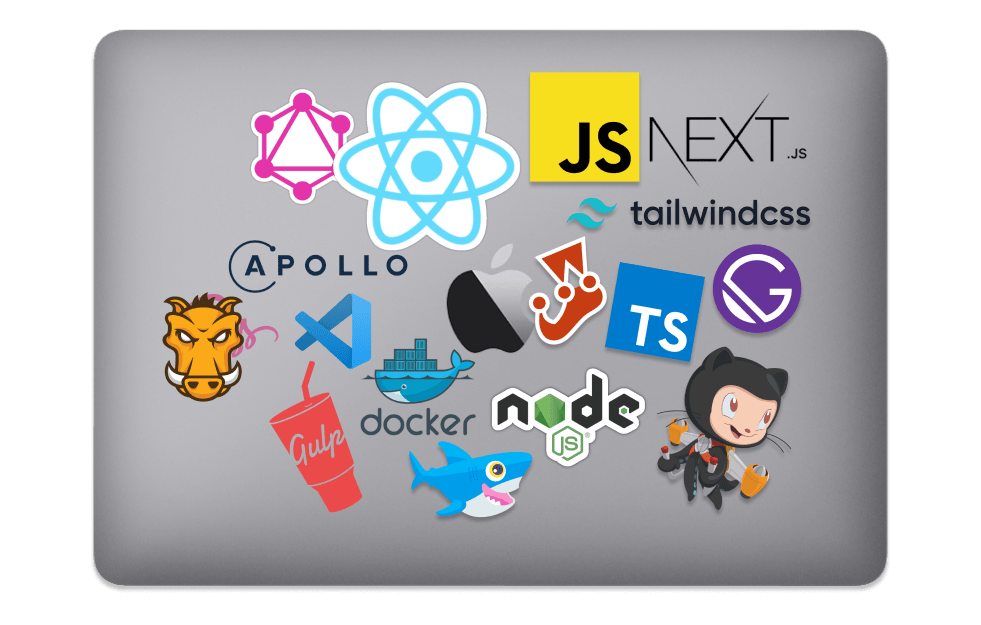
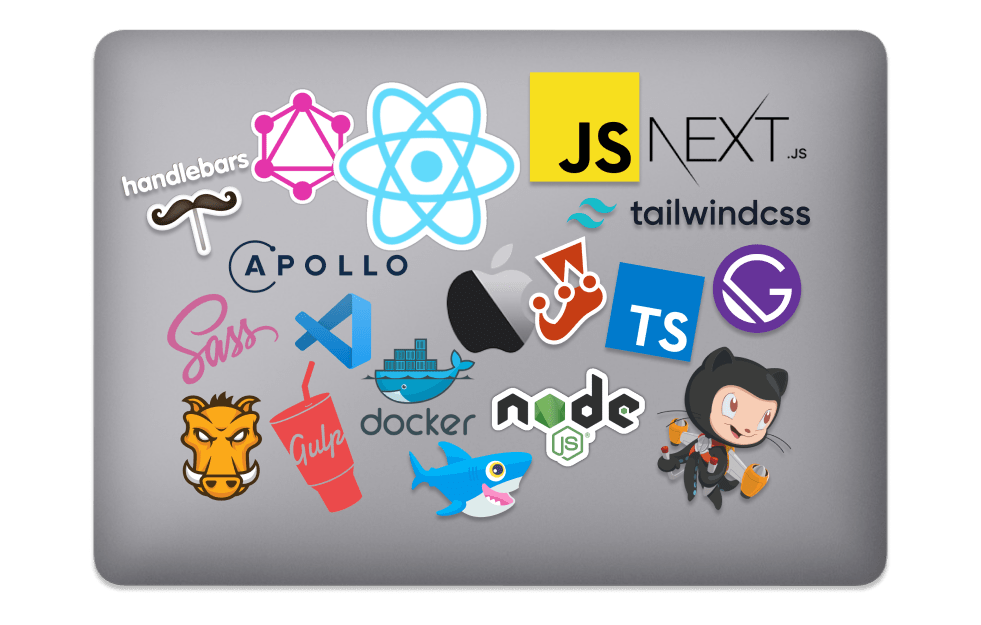
Adding MyStack, SHC, Recommendations, and minor changes

Changed region(s): [[0.1529, 0.456, 0.2752, 0.8208], [0.1223, 0.2432, 0.2752, 0.4256]]

diff --git a/components/SeHablaCodigo/SeHablaCodigo.js b/components/SeHablaCodigo/SeHablaCodigo.js
@@ -1,0 +1,86 @@
+import styled from 'styled-components';
+import { FlexCenteredXY } from '../StyledHelpers';
+
+const StyledSeHablaCodigo = styled(FlexCenteredXY)`
+  background-color: #0c0c0c;
+  border-top: 1px solid lightgray;
+  border-bottom: 1px solid lightgray;
+  padding: 16px;
+  margin-left: -1rem;
+  margin-right: -1rem;
+  h2 {
+    color: #ffc839;
+    text-align: center;
+    font-size: 3rem;
+    padding-top: 3rem;
+  }
+  h3 {
+    color: #a0c96b;
+  }
+  h4 {
+    text-align: center;
+  }
+  p {
+    color: #8a99a3;
+  }
+  img {
+    margin-bottom: 2rem;
+    width: 480px;
+  }
+  .podcast,
+  .youtube {
+    padding: 2rem;
+  }
+`;
+
+export default function SeHablaCodigo() {
+  return (
+    <>
+      <StyledSeHablaCodigo as='section'>
+        <h2>Se Habla Código&#8482;</h2>
+        <h4>
+          This is how I promote knowledge sharing with the community.
+          <br />
+          "Se Habla Código", is a podcast and YouTube channel focused on web
+          development (in Spanish).
+        </h4>
+        <div className='grid'>
+          <div className='podcast'>
+            <h3>Podcast</h3>
+            <img
+              src='images/podcast-screenshot.png'
+              alt='Se Habla Codigo - Podcast'
+            />
+            <p>
+              The podcast is available in most popular platforms, like Spotify,
+              Apple podcasts, Google podcasts, and others. Also available on the
+              web through our{' '}
+              <a href='https://anchor.fm/sehablacodigo' target='_blank'>
+                Anchor
+              </a>{' '}
+              page.
+            </p>
+          </div>
+          <div className='youtube'>
+            <h3>YouTube</h3>
+            <img
+              src='images/youtube-screenshot.png'
+              alt='Se Habla Codigo - YouTube'
+            />
+            <p>
+              The video format allows us to dig deeper into topics we cannot
+              expand on our podcast. In our{' '}
+              <a
+                href='https://www.youtube.com/channel/UCM7c4hwn-BZT67chRgpkCNg'
+                target='_blank'
+              >
+                YouTube channel
+              </a>{' '}
+              I am able to share examples, presentations, tutorials and more.
+            </p>
+          </div>
+        </div>
+      </StyledSeHablaCodigo>
+    </>
+  );
+}

diff --git a/pages/index.js b/pages/index.js
@@ -1,10 +1,12 @@
 import Layout from '../components/Layout';
-// import ReactMarkdown from 'react-markdown';
 import { getData } from '../utils/markdown-importer/markdownImporter';
-import { ABOUT } from '../constants';
+import { ABOUT, RECOMMENDATIONS } from '../constants';
 import Hero from '../components/Hero/Hero';
+import MyStack from '../components/MyStack/MyStack';
+import SeHablaCodigo from '../components/SeHablaCodigo/SeHablaCodigo';
+import Recommendations from '../components/Recommendations/recommendations';
 
-export default function Home({ about }) {
+export default function Home({ about, recommendations }) {
   const {
     main_headline,
     secondary_headline,
@@ -20,26 +22,21 @@ export default function Home({ about }) {
         secondaryHeadline={secondary_headline}
         supportHeadline={support_headline}
       />
-      <section>
-        {/* <div>
-          <h1>David Kontorovsky</h1>
-        </div> */}
-        {/* <p>{secondary_headline}</p>
-        <h1>
-          <ReactMarkdown source={main_headline} />
-        </h1>
-        <ReactMarkdown source={support_headline} /> */}
-      </section>
+      <MyStack />
+      <SeHablaCodigo />
+      <Recommendations data={recommendations} />
     </Layout>
   );
 }
 
 export async function getStaticProps() {
   const about = getData(ABOUT);
+  const recommendations = getData(RECOMMENDATIONS);
 
   return {
     props: {
       about,
+      recommendations,
     },
   };
 }

diff --git a/components/MyStack/MyStack.js b/components/MyStack/MyStack.js
@@ -1,0 +1,48 @@
+import styled from 'styled-components';
+import { FlexCenteredXY } from '../StyledHelpers';
+
+const StyledMyStack = styled(FlexCenteredXY)`
+  h2 {
+    text-align: center;
+    font-size: 3rem;
+  }
+`;
+
+export default function MyStack() {
+  return (
+    <>
+      <StyledMyStack as='section'>
+        <h2>Tech Stack</h2>
+        <div className='grid'>
+          <div>
+            <img src='images/my-mac.png' alt='Laptop with stickers' />
+          </div>
+          <div>
+            <h3>Languages</h3>
+            <p>JavaScript, TypeScript, and NodeJS.</p>
+            <h3>Libraries and Frameworks</h3>
+            <ul>
+              <li>React, NextJS, Gatsby, Styled Components, Material UI.</li>
+              <li>Jest, Mocha, Jasmine.</li>
+              <li>Sass, PostCSS, TailwindCSS.</li>
+              <li>
+                Templating with Handlebars, Mustache, NunJucks and Liquid.
+              </li>
+            </ul>
+            <h3>APIs</h3>
+            <p>REST, GraphQL, Apollo.</p>
+            <h3>Cloud</h3>
+            <p>Netlify, Vercel, Digital Ocean, AWS.</p>
+            <h3>Tools and Others</h3>
+            <p>
+              Snowpack, Webpack, Parcel, Grunt, Gulp, Git, Docker, Postman,
+              Insomnia, Figma, Photoshop, Sketch.
+            </p>
+            <h3>Wish List</h3>
+            <p>Vue and Svelte.</p>
+          </div>
+        </div>
+      </StyledMyStack>
+    </>
+  );
+}

diff --git a/components/Recommendations/recommendations.js b/components/Recommendations/recommendations.js
@@ -1,0 +1,46 @@
+import styled from 'styled-components';
+import ReactMarkdown from 'react-markdown';
+
+const StyledRecommendationsWrapper = styled.section`
+  h2 {
+    font-size: 3rem;
+    text-align: center;
+  }
+`;
+const StyledRecommendations = styled.div`
+  display: grid;
+  grid-gap: var(--spacing-gutter);
+  grid-template-columns: repeat(auto-fit, minmax(380px, 1fr));
+  .recommendation__item {
+    background-color: #f3f4f5;
+    padding: 1rem;
+    border-radius: 8px;
+  }
+  blockquote {
+    border-left: 0.25rem solid #efefef;
+  }
+`;
+
+export default function Recommendations({ data }) {
+  data.sort((a, b) => b.metadata.order - a.metadata.order);
+
+  return (
+    <StyledRecommendationsWrapper>
+      <h2>Recommendations</h2>
+      <StyledRecommendations>
+        {data.map((r) => (
+          <div className='recommendation__item' key={r.id}>
+            <blockquote>
+              <ReactMarkdown source={r.content} />
+            </blockquote>
+            <p>
+              {r.metadata.name}, {r.metadata.work_relationship},{' '}
+              {r.metadata.organization} <br />
+              {r.metadata.date}. Via {r.metadata.origin}
+            </p>
+          </div>
+        ))}
+      </StyledRecommendations>
+    </StyledRecommendationsWrapper>
+  );
+}

diff --git a/components/Hero/Hero.js b/components/Hero/Hero.js
@@ -3,11 +3,12 @@ import ReactMarkdown from 'react-markdown';
 import { FlexCenteredXY } from '../StyledHelpers';
 import DownloadResumeButton from '../Resume/DownloadResumeButton';
 
-const HeroWrapper = styled.div`
+const HeroWrapper = styled.section`
   background-repeat: no-repeat;
   background-size: cover;
   margin-left: -1rem;
   margin-right: -1rem;
+  padding: 4rem 3rem;
 
   @media (max-width: 1024px) {
     background-image: url('./images/hero-1024w.jpeg');
@@ -23,7 +24,6 @@ const HeroWrapper = styled.div`
 `;
 const StyledHero = styled(FlexCenteredXY)`
   width: 100%;
-  padding: 2.8rem;
   .avatar {
     padding: 8px;
     margin-bottom: 8px;

diff --git a/components/Navigation/Navigation.js b/components/Navigation/Navigation.js
@@ -14,8 +14,8 @@ export default function Navigation() {
   const navItems = [
     { name: <HomeIcon />, path: '/' },
     { name: 'about', path: '/about' },
-    { name: 'projects', path: '/projects' },
-    { name: 'recommendations', path: '/recommendations' },
+    // { name: 'projects', path: '/projects' },
+    // { name: 'recommendations', path: '/recommendations' },
     // { name: "Blog", path: "/blog" },
     { name: 'contact', path: '/contact' },
   ];
